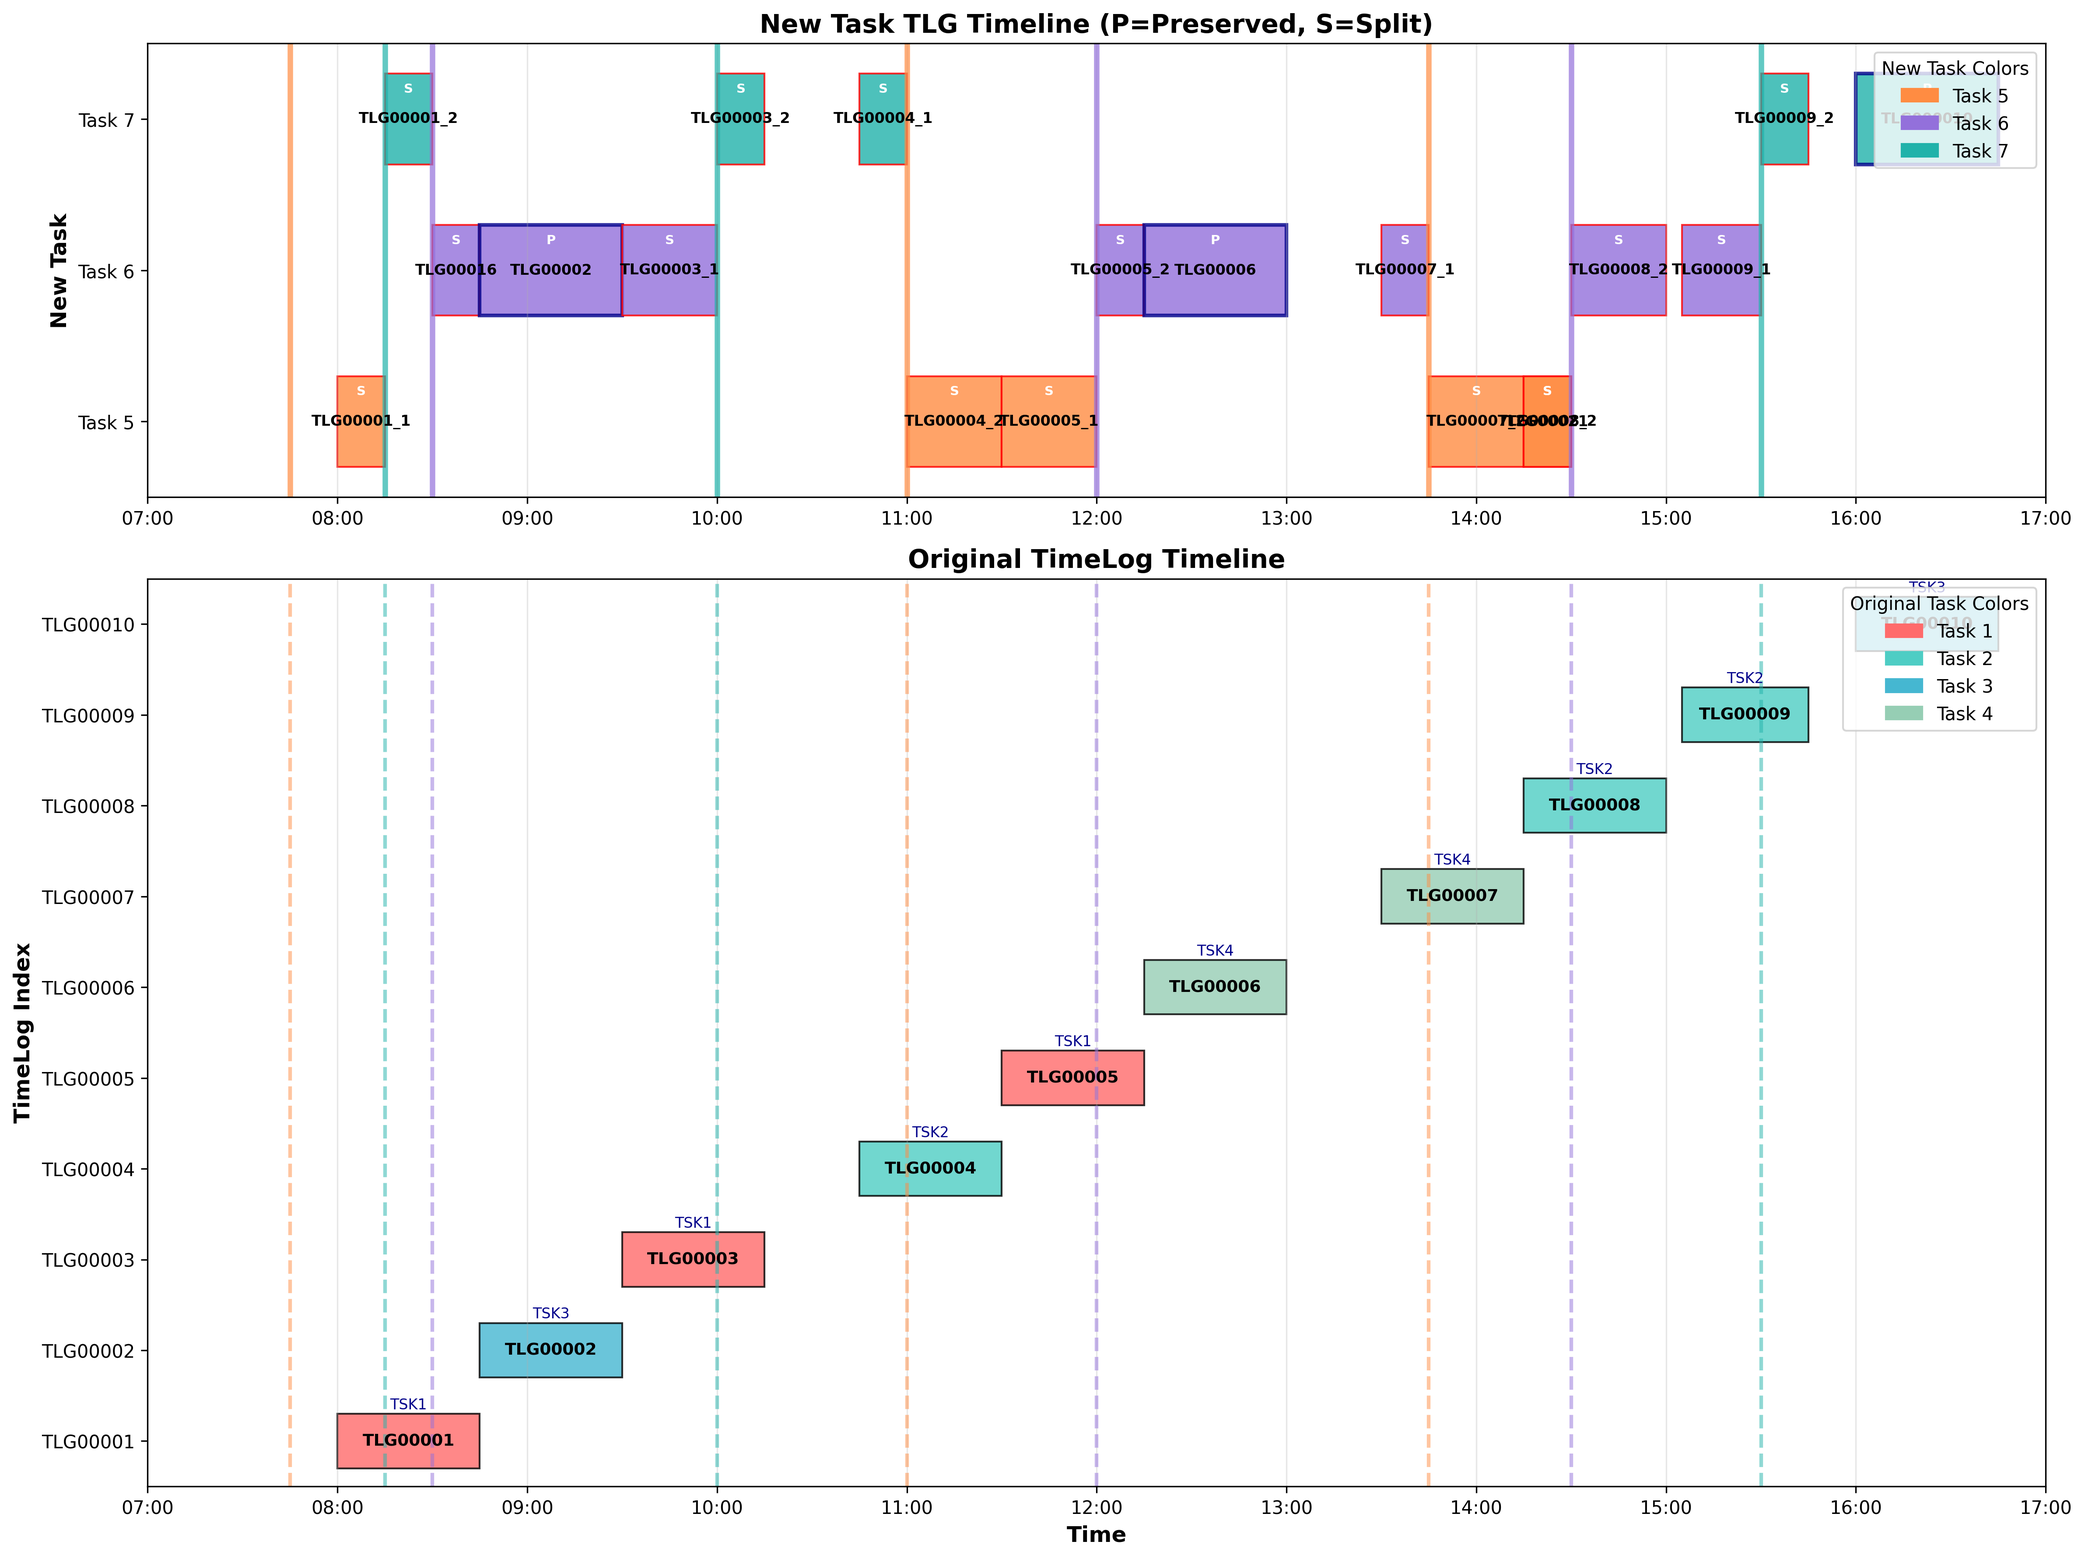
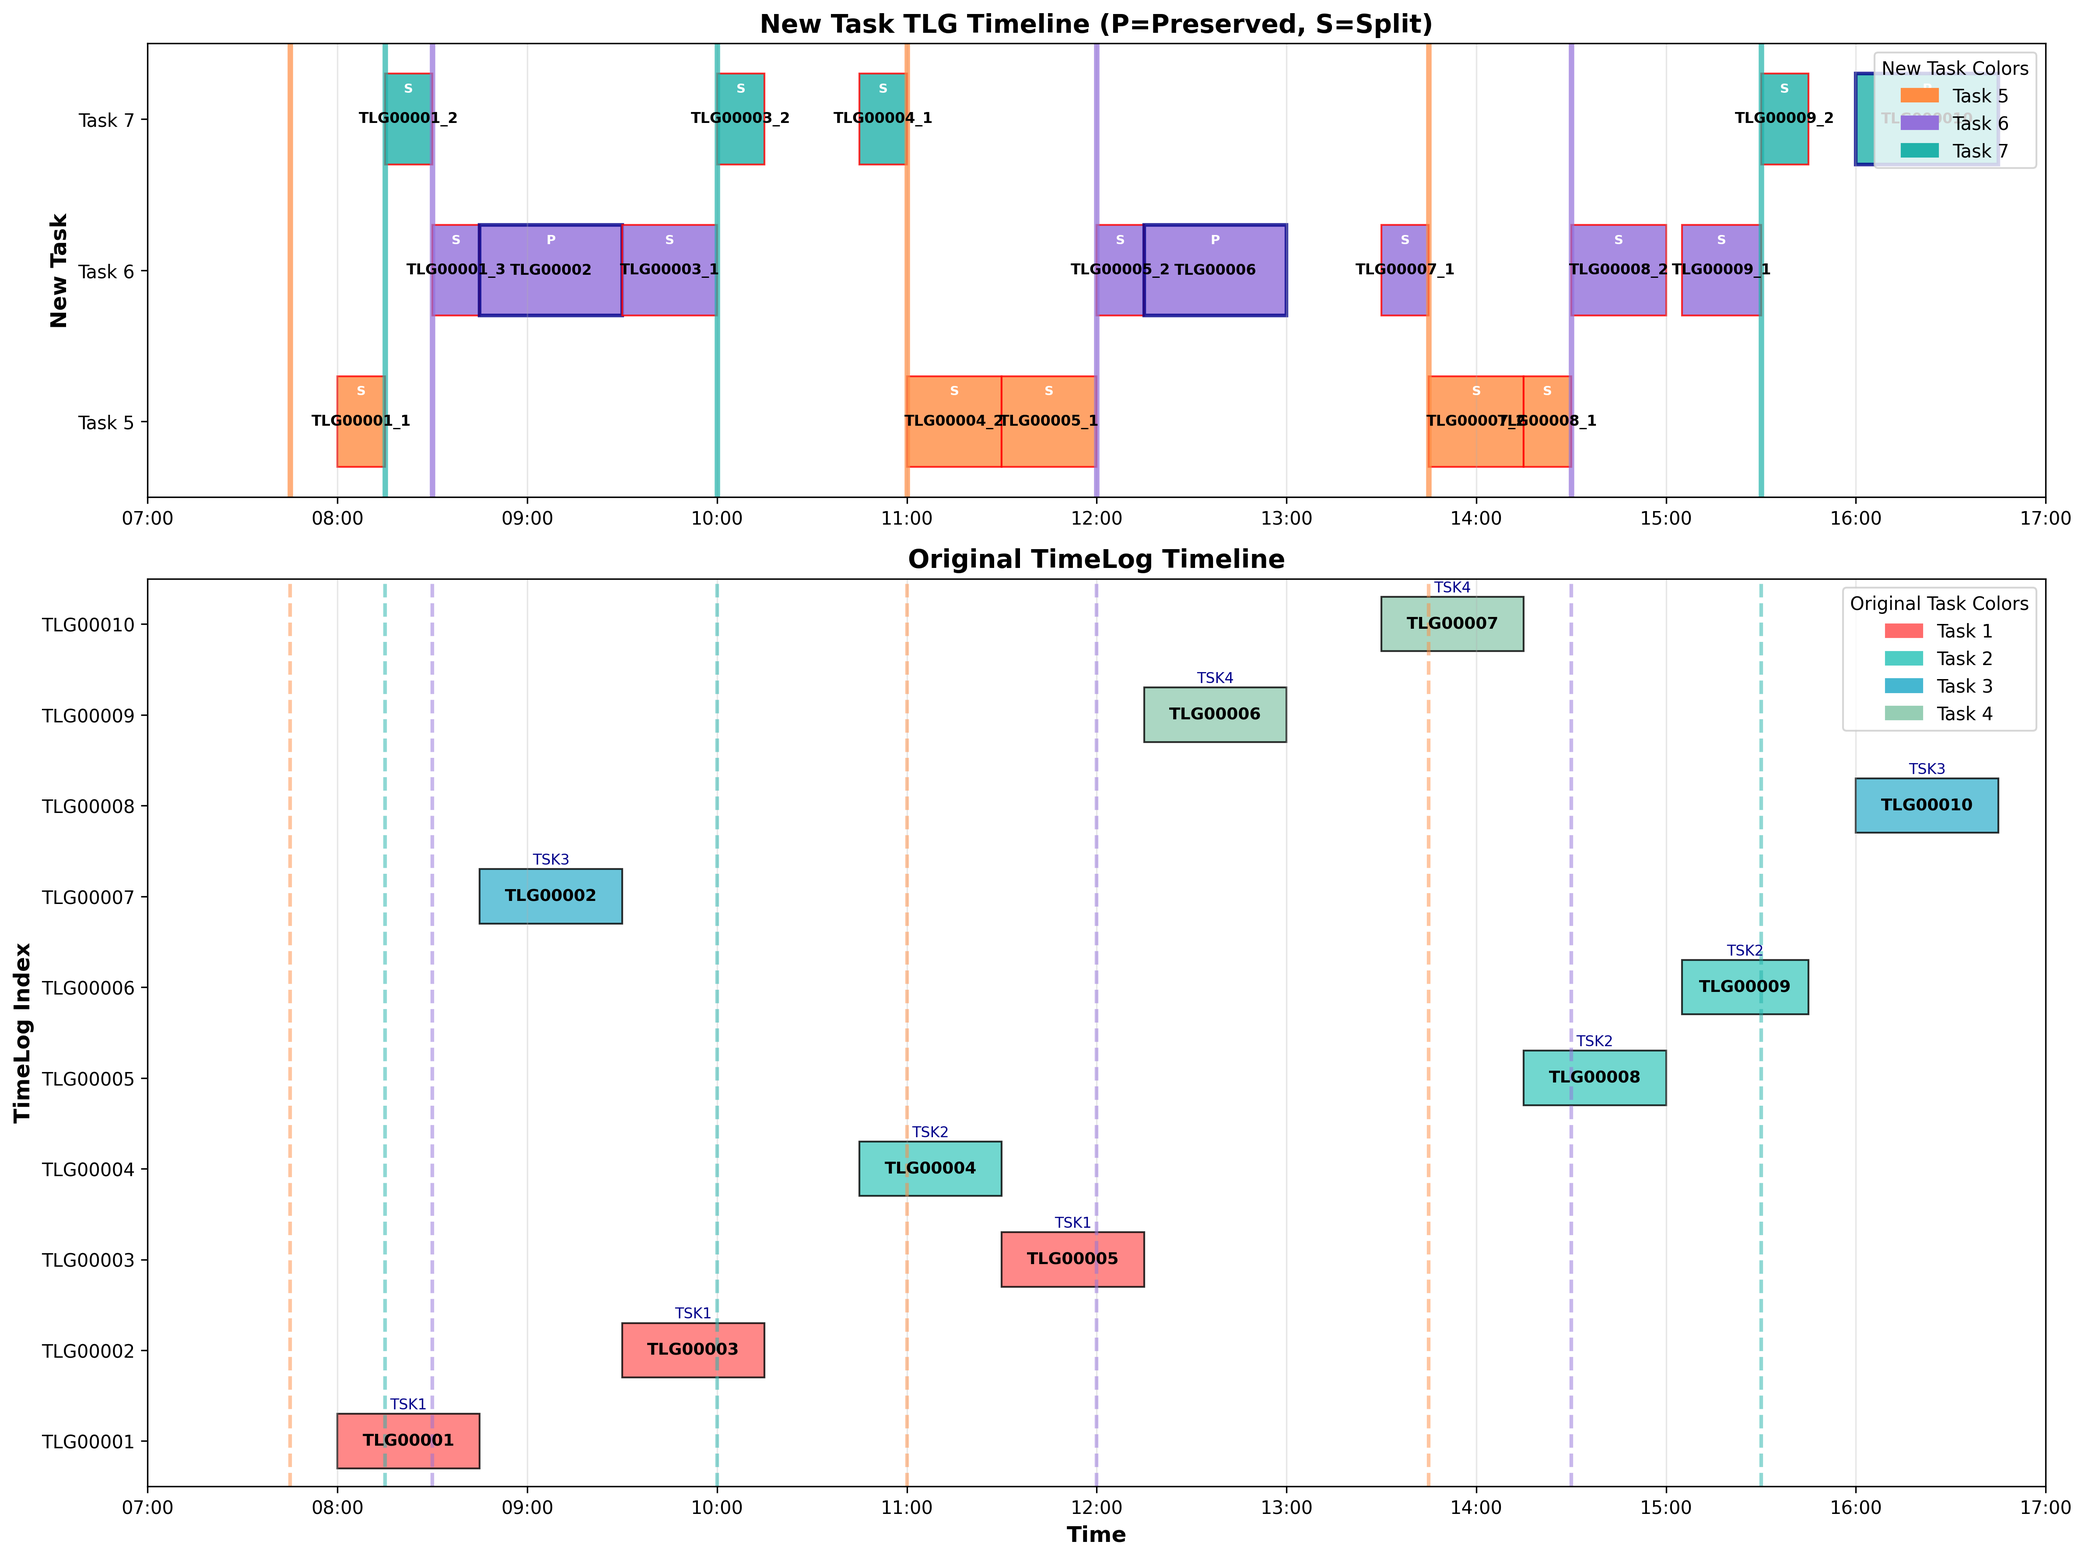
Adjust drawing

diff --git a/Dev4Agriculture.ISO11783.ISOXML.Test/python/timeline_diagram.py b/Dev4Agriculture.ISO11783.ISOXML.Test/python/timeline_diagram.py
@@ -6,6 +6,8 @@ Creates a visual representation of TimeLogs over time.
 
 import matplotlib.pyplot as plt
 import matplotlib.patches as patches
+from data import input_data, output_data, split_points
+
 from datetime import datetime, time
 import numpy as np
 
@@ -16,19 +18,14 @@ def time_to_minutes(t):
 def create_timeline_diagram():
     """Create the timeline diagram"""
     
-    # Initial data from the user's table
-    time_logs_data = [
-        ("TLG00001", 1, 8, 0, 8, 45),
-        ("TLG00002", 3, 8, 45, 9, 30),
-        ("TLG00003", 1, 9, 30, 10, 15),
-        ("TLG00004", 2, 10, 45, 11, 30),
-        ("TLG00005", 1, 11, 30, 12, 15),
-        ("TLG00006", 4, 12, 15, 13, 0),
-        ("TLG00007", 4, 13, 30, 14, 15),
-        ("TLG00008", 2, 14, 15, 15, 0),
-        ("TLG00009", 2, 15, 5, 15, 45),
-        ("TLG00010", 3, 16, 0, 16, 45)
-    ]
+    # Import initial data from data.py
+    from data import input_data
+    
+    # Convert input_data to the format expected by the plotting function
+    time_logs_data = []
+    for task_no, time_logs in input_data.items():
+        for tlg_id, start_h, start_m, end_h, end_m in time_logs:
+            time_logs_data.append((tlg_id, task_no, start_h, start_m, end_h, end_m))
     
     # Create figure and axis
     fig, ax = plt.subplots(figsize=(15, 10))
@@ -127,32 +124,8 @@ def create_timeline_diagram():
 def create_combined_diagram():
     """Create combined diagram showing both original TimeLogs and new task assignments"""
     
-    # Split points data
-    split_points = [
-        (5, 7, 45, "Task 5 active"),
-        (5, 11, 0, "Task 5 active"),
-        (5, 13, 45, "Task 5 active"),
-        (6, 8, 30, "Task 6 active"),
-        (6, 12, 0, "Task 6 active"),
-        (6, 14, 30, "Task 6 active"),
-        (7, 8, 15, "Task 7 active"),
-        (7, 10, 0, "Task 7 active"),
-        (7, 15, 30, "Task 7 active")
-    ]
-    
-    # New task TLG assignments at each specific activation point
-    # Format: (task_no, hour, minute): [TLGs created at this point]
-    split_point_tlgs = {
-        (5, 7, 45): ["TLG00011"],  # Task 5 starts - gets TLG00011 (split from TLG00001)
-        (5, 11, 0): ["TLG00012", "TLG00013"],  # Task 5 resumes - gets TLG00012, TLG00013
-        (5, 13, 45): ["TLG00014", "TLG00015"],  # Task 5 resumes - gets TLG00014, TLG00015
-        (6, 8, 30): ["TLG00016"],  # Task 6 starts - gets TLG00016 (split from TLG00001)
-        (6, 12, 0): ["TLG00017", "TLG00018"],  # Task 6 resumes - gets TLG00017, TLG00018
-        (6, 14, 30): ["TLG00019", "TLG00020", "TLG00021"],  # Task 6 resumes - gets TLG00019, TLG00020, TLG00021
-        (7, 8, 15): ["TLG00022"],  # Task 7 starts - gets TLG00022 (split from TLG00001)
-        (7, 10, 0): ["TLG00023"],  # Task 7 resumes - gets TLG00023 (split from TLG00003)
-        (7, 15, 30): ["TLG00024"]  # Task 7 resumes - gets TLG00024 (split from TLG00009)
-    }
+    # Import data from data.py
+    from data import split_points, output_data, input_data
     
     # Create figure with subplots
     fig, (ax1, ax2) = plt.subplots(2, 1, figsize=(16, 12), height_ratios=[1, 2])
@@ -172,36 +145,8 @@ def create_combined_diagram():
         # Add vertical line for split point
         ax1.axvline(x=time_minutes, color=color, linestyle='-', linewidth=3, alpha=0.7)
     
-    # Define the actual TLGs for each new task with their time ranges (CORRECTED)
-    new_task_tlg_data = {
-        5: [  # Task 5 TLGs
-            ("TLG00001_1", 8, 0, 8, 15, "split"),       # Split from TLG00001
-            ("TLG00004_2", 11, 0, 11, 30, "split"),     # Split from TLG00004
-            ("TLG00005_1", 11, 30, 12, 0, "split"), # First half of TLG00005 split
-            ("TLG00007_2", 13, 45, 14, 15, "split"), # Second half of TLG00007 split
-            ("TLG00008_2", 14, 15, 14, 30, "split"), # Second half of TLG00008 split
-        ],
-        6: [  # Task 6 TLGs
-            ("TLG00016", 8, 30, 8, 45, "split"),      # Split from TLG00001
-            ("TLG00002", 8, 45, 9, 30, "preserved"),  # Preserved from original (moved to Task 6)
-            ("TLG00003_1", 9, 30, 10, 0, "split"), # First half of TLG00003 split
-            ("TLG00005_2", 12, 0, 12, 15, "split"),     # Split from TLG00005
-            ("TLG00006", 12, 15, 13, 0, "preserved"),     # Split from TLG00006
-            ("TLG00007_1", 13, 30, 13, 45, "split"), # First half of TLG00007 split
-            ("TLG00008_2", 14, 30, 15, 0, "split"), # Second half of TLG00008 split
-            ("TLG00009_1", 15, 5, 15, 30, "split")  # First half of TLG00009 split
-        ],
-        7: [  # Task 7 TLGs
-            ("TLG00001_2", 8, 15, 8, 30, "split"),      # Split from TLG00001 (corrected end time)
-            ("TLG00003_2", 10, 0, 10, 15, "split"),     # Split from TLG00003
-            ("TLG00004_1", 10, 45, 11, 00, "split"),     # Split from TLG00003
-            ("TLG00009_2", 15, 30, 15, 45, "split"),     # Split from TLG00009
-            ("TLG000010", 16, 00, 16, 45, "preserved")     # Split from TLG00009
-        ]
-    }
-    
-    # Plot TLG bars for each new task
-    for task_no, tlgs in new_task_tlg_data.items():
+    # Plot TLG bars for each new task using output_data
+    for task_no, tlgs in output_data.items():
         y_position = task_no - 0.3  # Adjust Y position for each task
         
         for tlg_id, start_h, start_m, end_h, end_m, tlg_type in tlgs:
@@ -269,19 +214,11 @@ def create_combined_diagram():
     ax1.legend(handles=legend_elements, loc='upper right', title='New Task Colors')
     
     # Bottom subplot: Original TimeLogs timeline
-    # Initial data from the user's table
-    time_logs_data = [
-        ("TLG00001", 1, 8, 0, 8, 45),
-        ("TLG00002", 3, 8, 45, 9, 30),
-        ("TLG00003", 1, 9, 30, 10, 15),
-        ("TLG00004", 2, 10, 45, 11, 30),
-        ("TLG00005", 1, 11, 30, 12, 15),
-        ("TLG00006", 4, 12, 15, 13, 0),
-        ("TLG00007", 4, 13, 30, 14, 15),
-        ("TLG00008", 2, 14, 15, 15, 0),
-        ("TLG00009", 2, 15, 5, 15, 45),
-        ("TLG00010", 3, 16, 0, 16, 45)
-    ]
+    # Convert input_data to the format expected by the plotting function
+    time_logs_data = []
+    for task_no, time_logs in input_data.items():
+        for tlg_id, start_h, start_m, end_h, end_m in time_logs:
+            time_logs_data.append((tlg_id, task_no, start_h, start_m, end_h, end_m))
     
     # Color scheme for original tasks
     task_colors = {

diff --git a/Dev4Agriculture.ISO11783.ISOXML.Test/python/data.py b/Dev4Agriculture.ISO11783.ISOXML.Test/python/data.py
@@ -1,0 +1,61 @@
+# Initial data from the user's table
+input_data = {
+    1:[
+        ("TLG00001", 8, 0, 8, 45),
+        ("TLG00003", 9, 30, 10, 15),
+        ("TLG00005", 11, 30, 12, 15)
+    ],
+    2:[
+        ("TLG00004", 10, 45, 11, 30),
+        ("TLG00008", 14, 15, 15, 0),
+        ("TLG00009", 15, 5, 15, 45)
+    ],
+    3:[
+        ("TLG00002", 8, 45, 9, 30),
+        ("TLG00010", 16, 0, 16, 45)
+    ],
+    4:[
+        ("TLG00006", 12, 15, 13, 0),
+        ("TLG00007", 13, 30, 14, 15)
+    ]
+}
+
+# Split points data
+split_points = [
+    (5, 7, 45, "Task 5 active"),
+    (5, 11, 0, "Task 5 active"),
+    (5, 13, 45, "Task 5 active"),
+    (6, 8, 30, "Task 6 active"),
+    (6, 12, 0, "Task 6 active"),
+    (6, 14, 30, "Task 6 active"),
+    (7, 8, 15, "Task 7 active"),
+    (7, 10, 0, "Task 7 active"),
+    (7, 15, 30, "Task 7 active")
+]
+
+output_data = {
+        5: [  # Task 5 TLGs
+            ("TLG00001_1", 8, 0, 8, 15, "split"),       # Split from TLG00001
+            ("TLG00004_2", 11, 0, 11, 30, "split"),     # Split from TLG00004
+            ("TLG00005_1", 11, 30, 12, 0, "split"), # First half of TLG00005 split
+            ("TLG00007_2", 13, 45, 14, 15, "split"), # Second half of TLG00007 split
+            ("TLG00008_1", 14, 15, 14, 30, "split"), # Second half of TLG00008 split
+        ],
+        6: [  # Task 6 TLGs
+            ("TLG00001_3", 8, 30, 8, 45, "split"),      # Split from TLG00001
+            ("TLG00002", 8, 45, 9, 30, "preserved"),  # Preserved from original (moved to Task 6)
+            ("TLG00003_1", 9, 30, 10, 0, "split"), # First half of TLG00003 split
+            ("TLG00005_2", 12, 0, 12, 15, "split"),     # Split from TLG00005
+            ("TLG00006", 12, 15, 13, 0, "preserved"),     # Split from TLG00006
+            ("TLG00007_1", 13, 30, 13, 45, "split"), # First half of TLG00007 split
+            ("TLG00008_2", 14, 30, 15, 0, "split"), # Second half of TLG00008 split
+            ("TLG00009_1", 15, 5, 15, 30, "split")  # First half of TLG00009 split
+        ],
+        7: [  # Task 7 TLGs
+            ("TLG00001_2", 8, 15, 8, 30, "split"),      # Split from TLG00001 (corrected end time)
+            ("TLG00003_2", 10, 0, 10, 15, "split"),     # Split from TLG00003
+            ("TLG00004_1", 10, 45, 11, 00, "split"),     # Split from TLG00003
+            ("TLG00009_2", 15, 30, 15, 45, "split"),     # Split from TLG00009
+            ("TLG000010", 16, 00, 16, 45, "preserved")     # Split from TLG00009
+        ]
+    }

diff --git a/Dev4Agriculture.ISO11783.ISOXML.Test/python/README.md b/Dev4Agriculture.ISO11783.ISOXML.Test/python/README.md
@@ -1,0 +1,186 @@
+# ISOXML TimeLog and Task Management
+
+This Python project demonstrates the core concepts for managing TimeLogs and Tasks in an ISOXML system. It provides a foundation for implementing the `SplitTaskSet` functionality.
+
+## Project Structure
+
+```
+Dev4Agriculture.ISO11783.ISOXML.Test/python/
+├── models.py          # Core data models (TimeLog, Task classes)
+├── utils.py           # Utility functions and sample data creation
+├── test_cases.py      # Comprehensive test suite
+├── main.py            # Main demonstration script
+└── README.md          # This file
+```
+
+## Core Classes
+
+### TimeLog Class
+- **Purpose**: Represents a single time log entry
+- **Properties**: `id`, `start_time`, `end_time`
+- **Methods**: `duration_minutes()`
+
+### Task Class
+- **Purpose**: Represents a task containing multiple TimeLogs
+- **Properties**: `id`, `time_logs` (list of TimeLog objects)
+- **Key Methods**:
+  - `get_start_time()`: Returns minimum start time across all TimeLogs
+  - `get_end_time()`: Returns maximum end time across all TimeLogs
+  - `is_in_active_work(timestamp)`: Checks if timestamp falls within any TimeLog's range
+  - `get_duration_minutes()`: Calculates total task duration
+  - `add_time_log()`: Adds a TimeLog to the task
+
+## Sample Data
+
+The project includes sample data based on your table:
+
+| TLGNo | TaskNo | TLGStart | TLGEnd | Notes |
+|-------|--------|----------|---------|-------|
+| TLG00001 | 1 | 08:00:00 | 08:45:00 | Task 1 starts |
+| TLG00002 | 3 | 08:45:00 | 09:30:00 | No gap - Different task (Task 3) |
+| TLG00003 | 1 | 09:30:00 | 10:15:00 | No gap - Different task (Task 1) |
+| TLG00004 | 2 | 10:45:00 | 11:30:00 | Gap: 30 min - Different task (Task 2) |
+| TLG00005 | 1 | 11:30:00 | 12:15:00 | No gap - Different task (Task 1 again) |
+| TLG00006 | 4 | 12:15:00 | 13:00:00 | No gap - Different Task (Task 4) |
+| TLG00007 | 4 | 13:30:00 | 14:15:00 | Gap: 30 min - Same task (Task 4) |
+| TLG00008 | 2 | 14:15:00 | 15:00:00 | No gap - Different task (Task 2 again) |
+| TLG00009 | 2 | 15:05:00 | 15:45:00 | Gap 5 min - Same task (Task 2) |
+| TLG00010 | 3 | 16:00:00 | 16:45:00 | Gap: 15 min - Different task (Task 3 again) |
+
+## Usage Examples
+
+### Basic Usage
+```python
+from models import TimeLog, Task
+from utils import time
+
+# Create a TimeLog
+tlg = TimeLog("TLG00001", time(8, 0), time(8, 45))
+
+# Create a Task and add TimeLogs
+task = Task(1)
+task.add_time_log(tlg)
+
+# Check if a timestamp is within active work
+is_active = task.is_in_active_work(time(8, 30))  # Returns True
+```
+
+### Working with Sample Data
+```python
+from utils import create_sample_tasks
+
+# Get sample tasks and time logs
+task_objects, time_logs = create_sample_tasks()
+
+# Access specific task
+task_1 = task_objects[1]
+print(f"Task 1: {task_1}")
+print(f"Start: {task_1.get_start_time()}")
+print(f"End: {task_1.get_end_time()}")
+```
+
+## Running the Project
+
+### Prerequisites
+- Python 3.6 or higher
+- No external dependencies required
+- For Docker option: Docker installed and running
+
+### Security Options
+
+This project provides multiple security levels for running Python code:
+
+#### 🔒 **Safe Mode (Recommended)**
+Uses Python's restricted execution with blocked dangerous operations:
+- Blocks file system access
+- Blocks network access
+- Blocks subprocess execution
+- Blocks dangerous builtins
+- 30-second timeout
+- Resource limits
+
+```bash
+python safe_runner.py test_cases.py
+```
+
+#### 🐳 **Docker Container (Maximum Security)**
+Runs code in completely isolated container:
+- No access to host filesystem
+- No network access
+- Memory and CPU limits
+- Read-only filesystem
+- 60-second timeout
+- Automatic cleanup
+
+```bash
+python docker_runner.py test_cases.py
+```
+
+#### 🚀 **Easy Execution**
+Use the provided scripts:
+- **Windows**: `run_safe.bat`
+- **PowerShell**: `run_safe.ps1`
+
+### Quick Start
+1. **Run the main demonstration**:
+   ```bash
+   python main.py
+   ```
+
+2. **Run the test suite safely**:
+   ```bash
+   python safe_runner.py test_cases.py
+   ```
+
+3. **Run individual components**:
+   ```bash
+   python -c "from utils import create_sample_tasks; print(create_sample_tasks())"
+   ```
+
+## Key Features
+
+### Task Time Range Calculation
+- **Start Time**: Minimum of all TimeLog start times
+- **End Time**: Maximum of all TimeLog end times
+- **Duration**: Total span from start to end
+
+### Active Work Detection
+The `is_in_active_work(timestamp)` method checks if a given timestamp falls within any TimeLog's time range within a task.
+
+### Gap Handling
+The system handles gaps between TimeLogs naturally:
+- Gaps within tasks are preserved
+- Task boundaries are calculated from actual TimeLog data
+- No assumptions about continuous time coverage
+
+## Future Development
+
+This foundation can be extended to implement:
+- **SplitTaskSet functionality**: Reorganizing tasks based on new criteria
+- **Task merging**: Combining related tasks
+- **Time-based filtering**: Filtering tasks by time ranges
+- **Conflict detection**: Identifying overlapping TimeLogs
+- **Export/Import**: Converting to/from ISOXML format
+
+## Testing
+
+The test suite covers:
+- Basic class creation and functionality
+- TimeLog and Task operations
+- IsInActiveWork function accuracy
+- Sample data validation
+- Edge cases (empty tasks, zero duration, etc.)
+
+Run tests to verify everything works correctly:
+```bash
+python test_cases.py
+```
+
+## Notes for C# Conversion
+
+When converting to C#:
+- Replace Python's `datetime` with C#'s `DateTime`
+- Convert Python lists to C# `List<T>` or `IEnumerable<T>`
+- Replace Python's optional types with C# nullable types
+- Convert Python string formatting to C# string interpolation
+- Consider using C# properties instead of Python's direct attribute access
